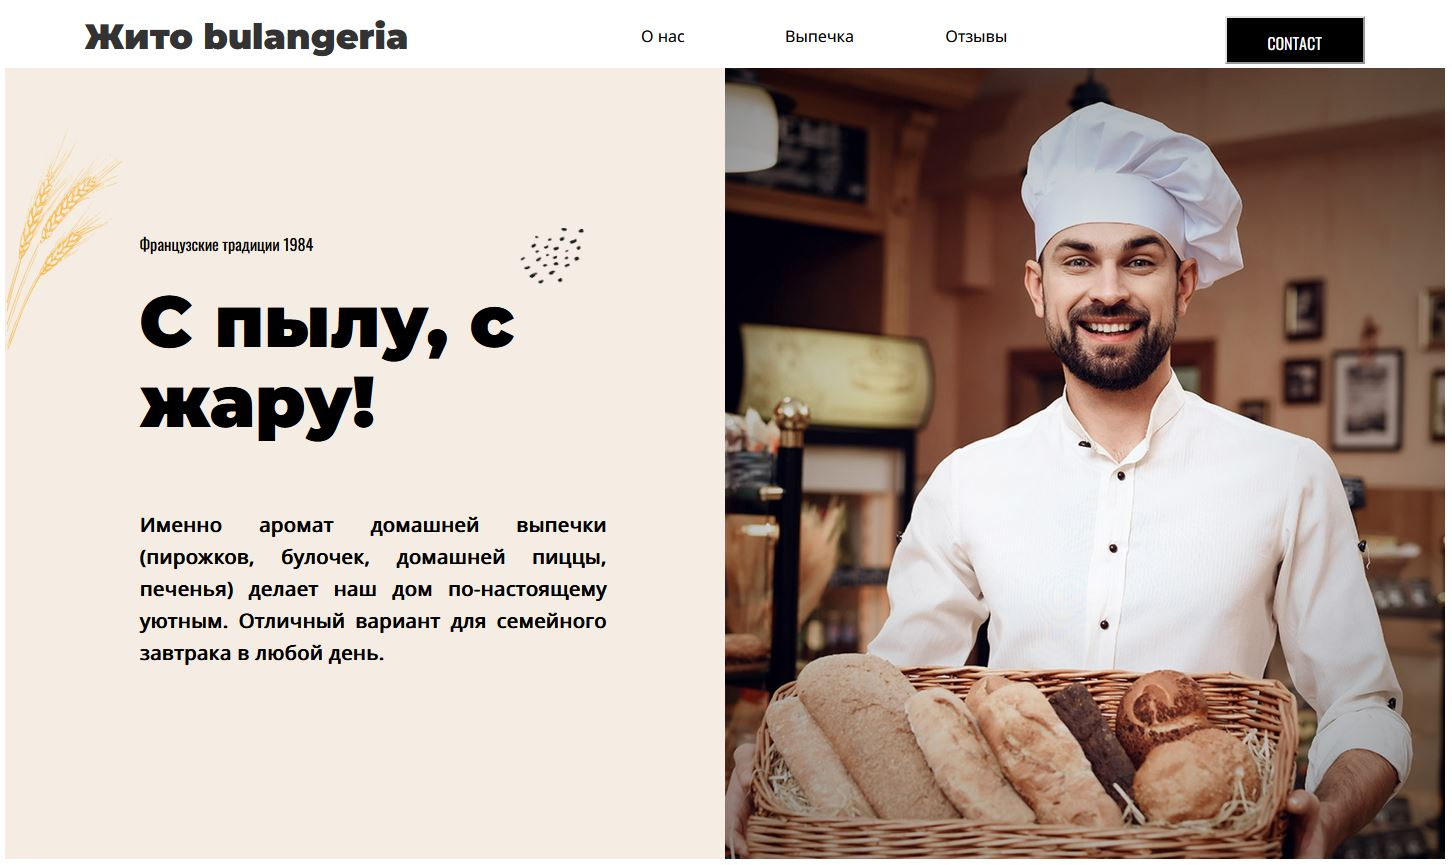
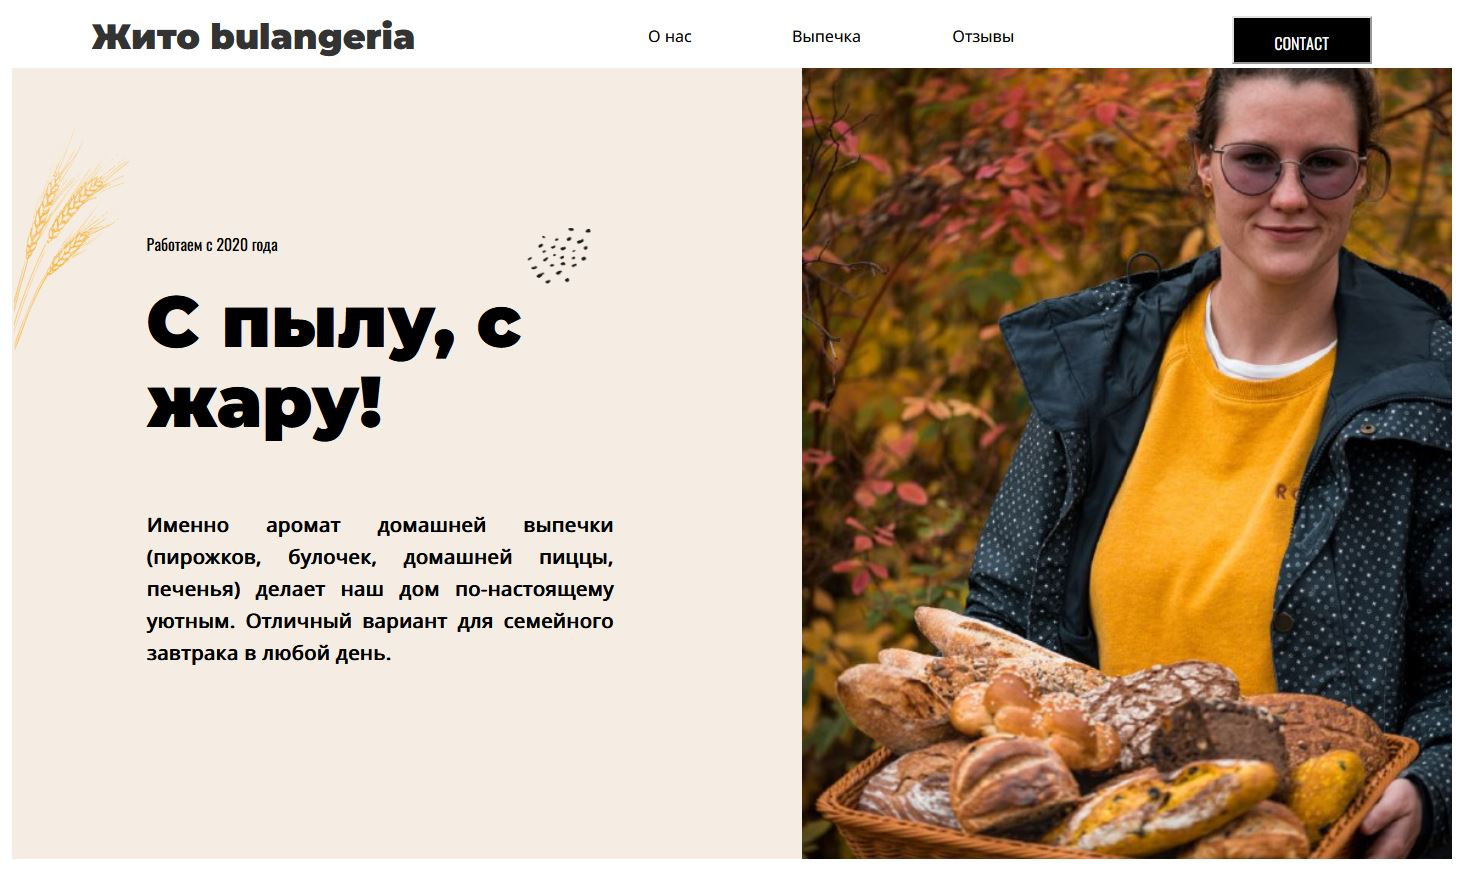
Заменил картинку проекта

diff --git a/dist/blog.html b/dist/blog.html
@@ -4,8 +4,8 @@
     <meta charset="UTF-8">
     <meta name="viewport" content="width=device-width, initial-scale=1.0"> <!-- ширина контента строго равна ширине девайса -->
     <title>Dmitry blog</title>
-    <link href="css/style.min.css?_v=20221207104616" rel="stylesheet"> <!-- подгружаем все стили -->
-    <script src="js/app.min.js?_v=20221207104616" defer></script> <!-- defer для полной загрузки DOM перед скриптом -->
+    <link href="css/style.min.css?_v=20221207173854" rel="stylesheet"> <!-- подгружаем все стили -->
+    <script src="js/app.min.js?_v=20221207173854" defer></script> <!-- defer для полной загрузки DOM перед скриптом -->
 </head>
 <body>
 <header class="header">

diff --git a/dist/contact.html b/dist/contact.html
@@ -4,8 +4,8 @@
     <meta charset="UTF-8">
     <meta name="viewport" content="width=device-width, initial-scale=1.0"> <!-- ширина контента строго равна ширине девайса -->
     <title>Dmitry blog</title>
-    <link href="css/style.min.css?_v=20221207104616" rel="stylesheet"> <!-- подгружаем все стили -->
-    <script src="js/app.min.js?_v=20221207104616" defer></script> <!-- defer для полной загрузки DOM перед скриптом -->
+    <link href="css/style.min.css?_v=20221207173854" rel="stylesheet"> <!-- подгружаем все стили -->
+    <script src="js/app.min.js?_v=20221207173854" defer></script> <!-- defer для полной загрузки DOM перед скриптом -->
 </head>
 <body>
 <header class="header">

diff --git a/dist/index.html b/dist/index.html
@@ -4,8 +4,8 @@
     <meta charset="UTF-8">
     <meta name="viewport" content="width=device-width, initial-scale=1.0"> <!-- ширина контента строго равна ширине девайса -->
     <title>Dmitry page</title>
-    <link href="css/style.min.css?_v=20221207104616" rel="stylesheet"> <!-- подгружаем все стили -->
-    <script src="js/app.min.js?_v=20221207104616" defer></script> <!-- defer для полной загрузки DOM перед скриптом -->
+    <link href="css/style.min.css?_v=20221207173854" rel="stylesheet"> <!-- подгружаем все стили -->
+    <script src="js/app.min.js?_v=20221207173854" defer></script> <!-- defer для полной загрузки DOM перед скриптом -->
 </head>
 <body>
 <header class="header">
